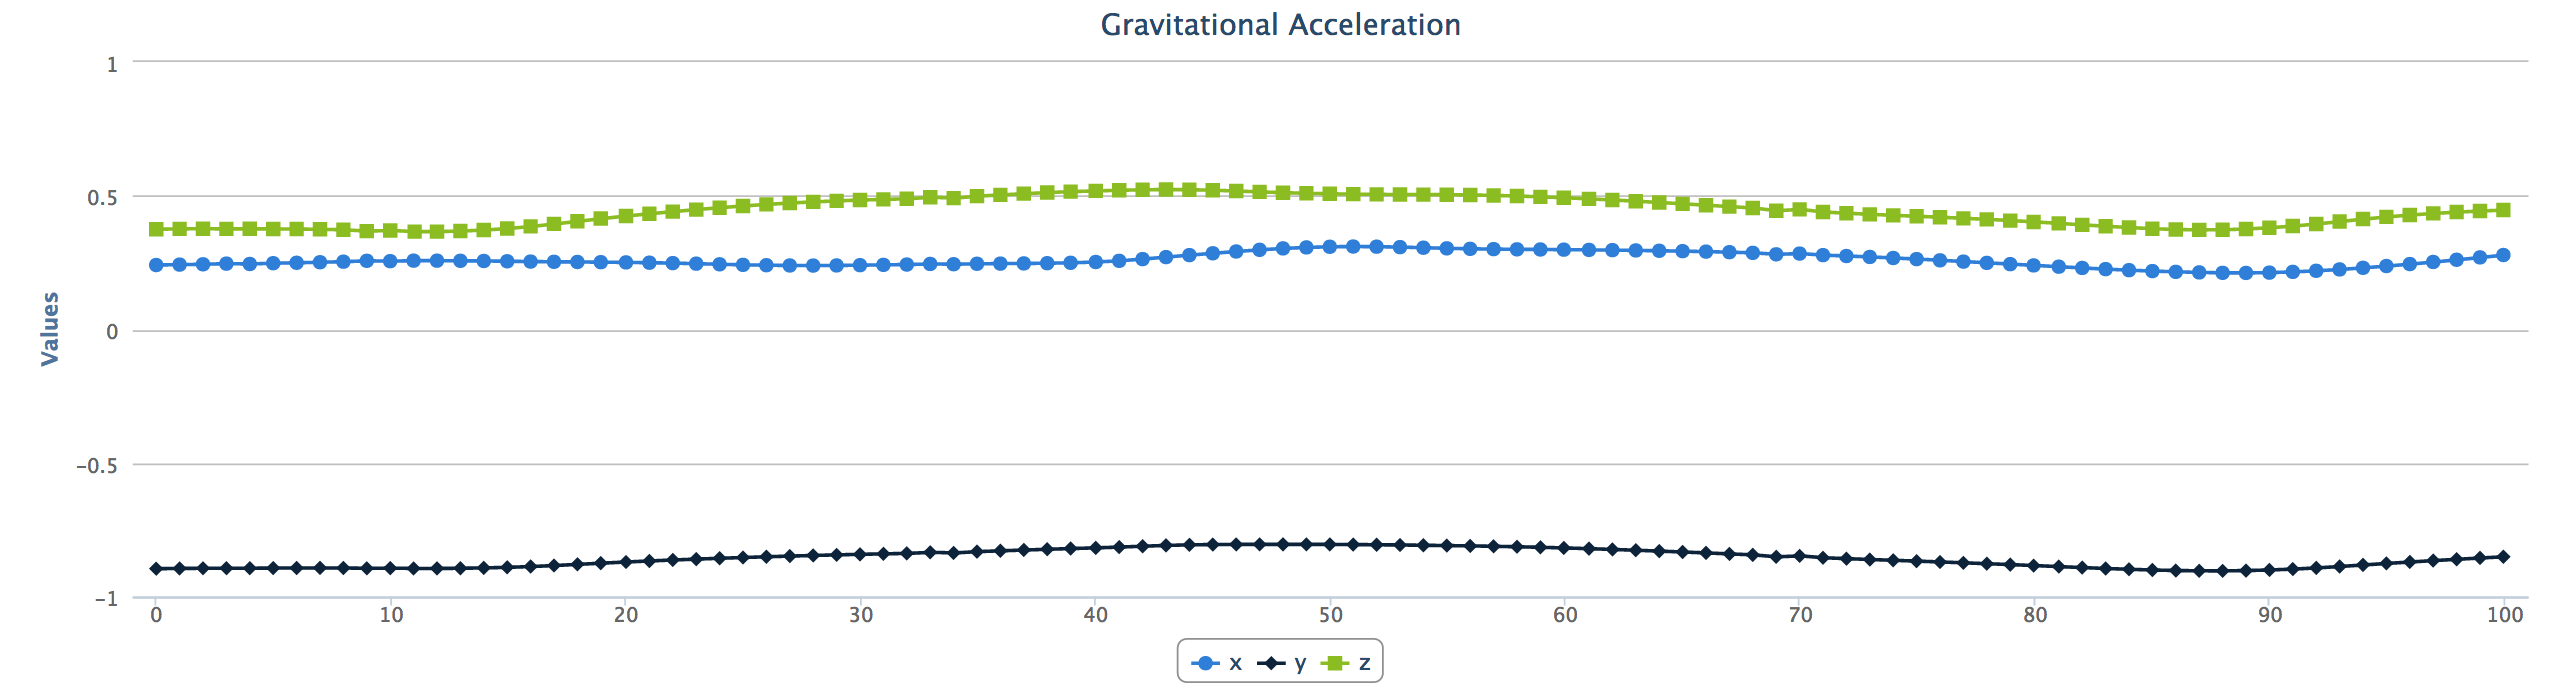
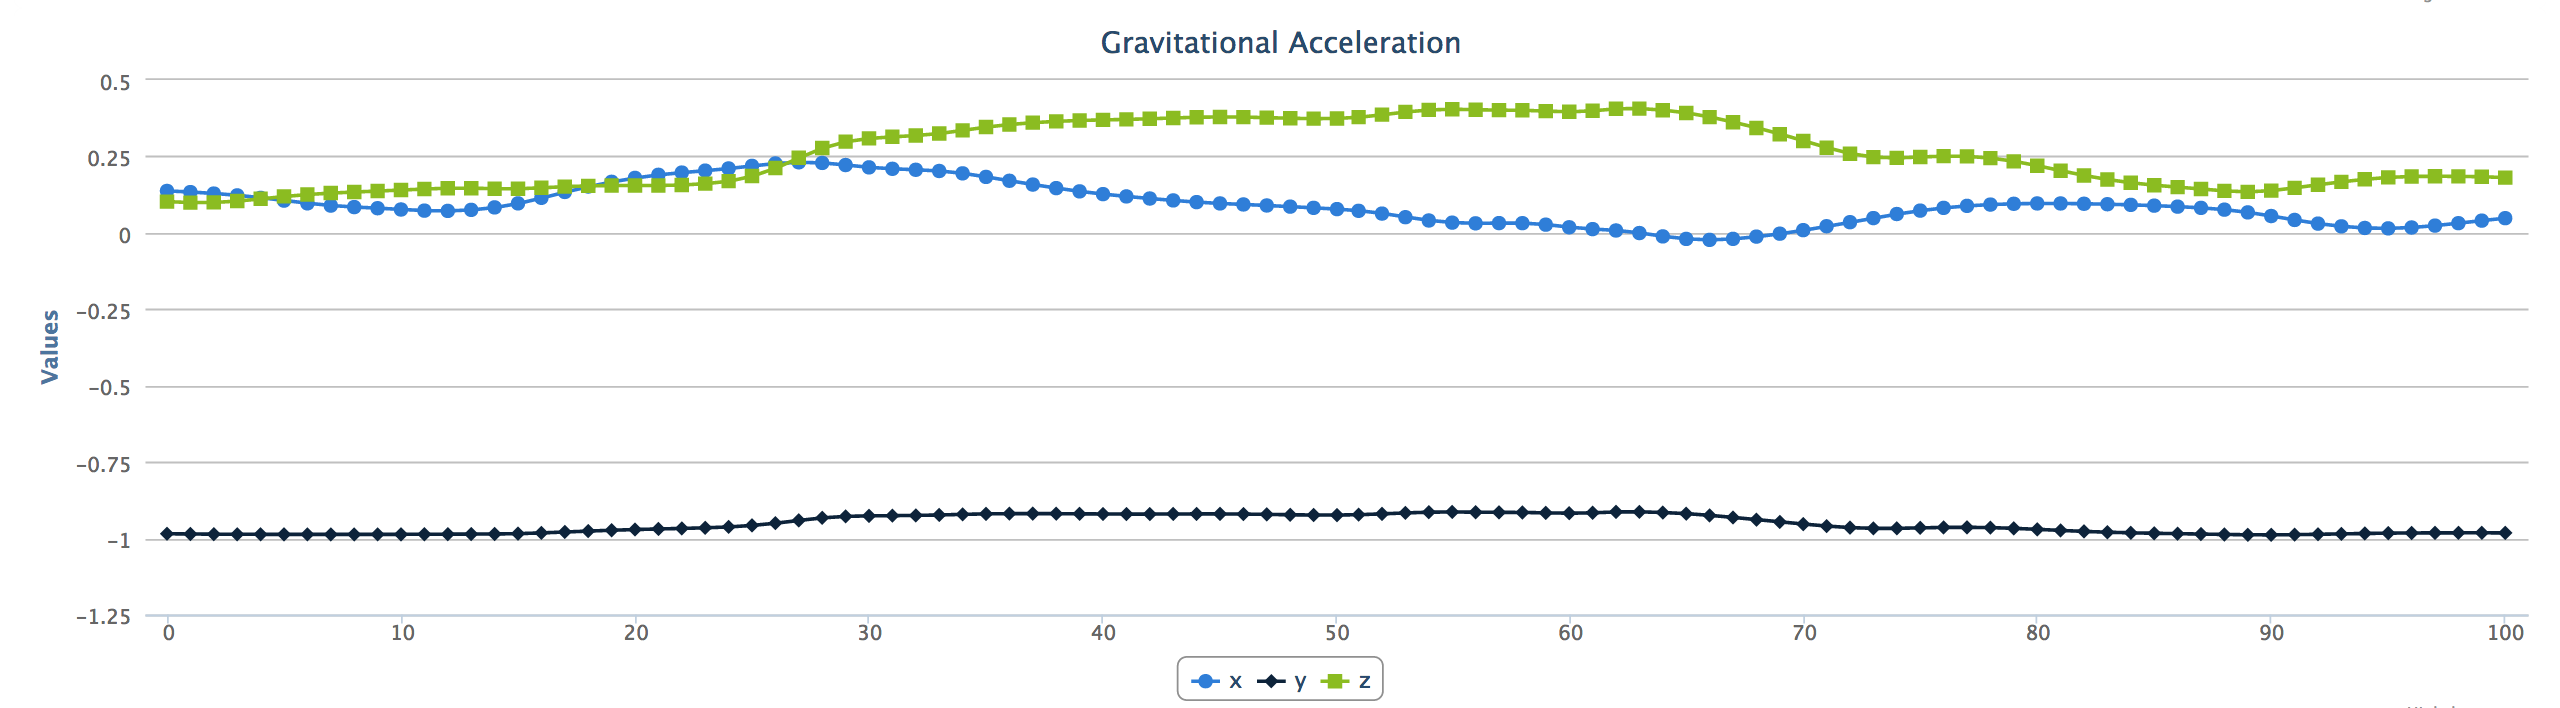
Diff plots

diff --git a/pedometer/chapter.md b/pedometer/chapter.md
@@ -90,8 +90,8 @@ Let's have a look at an example of total acceleration, $a_{t}$.
 
 ![](chapter-figures/figure-filter-total.png)\ 
 
-To filter out gravitational acceleration, $a_{g}$, we use the low-pass filter formula $a_{gn} = \alpha_{0} * (a_{tn} * \beta_{0} + a_{tn-1} * \beta_{1} + a_{tn-2} * \beta_{2} - a_{gn-1} * \alpha_{1} - a_{gn-2} * \alpha_{2})$. The $\alpha$ and $\beta$ values are set based on the type of filter, in this case, the Chebyshev filter. Notice that the resulting gravitational acceleration is constant, as we expected.
-TODO: Expland the section on calculating alpha and beta?
+To filter out gravitational acceleration, $a_{g}$, we use the low-pass filter formula $a_{gn} = \alpha_{0} * (a_{tn} * \beta_{0} + a_{tn-1} * \beta_{1} + a_{tn-2} * \beta_{2} - a_{gn-1} * \alpha_{1} - a_{gn-2} * \alpha_{2})$. The $\alpha$ and $\beta$ values are set based on the type of filter, in this case, the Chebyshev filter. 
+TODO: Expland the section on calculating alpha and beta? Should I add a plot of the phone in a different direction? In the example below, gravity is near-constant at 0 in the x and z directions, and $-9.8m/s^2$ in the y direction. 
 
 ![](chapter-figures/figure-filter-gravitational.png)\ 
 
